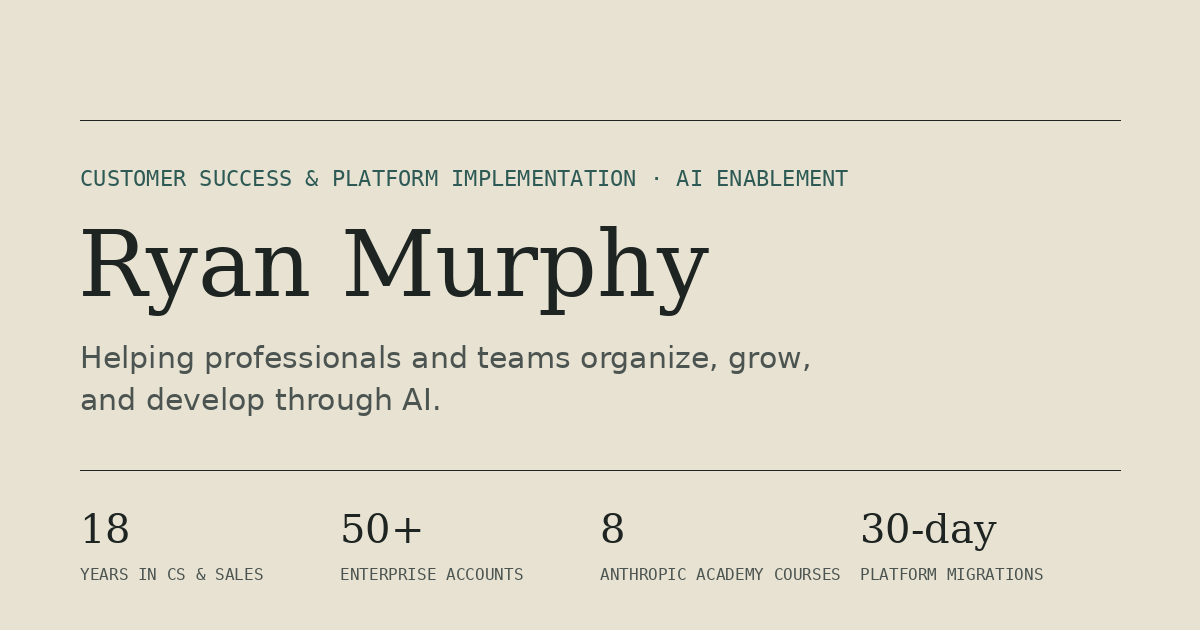
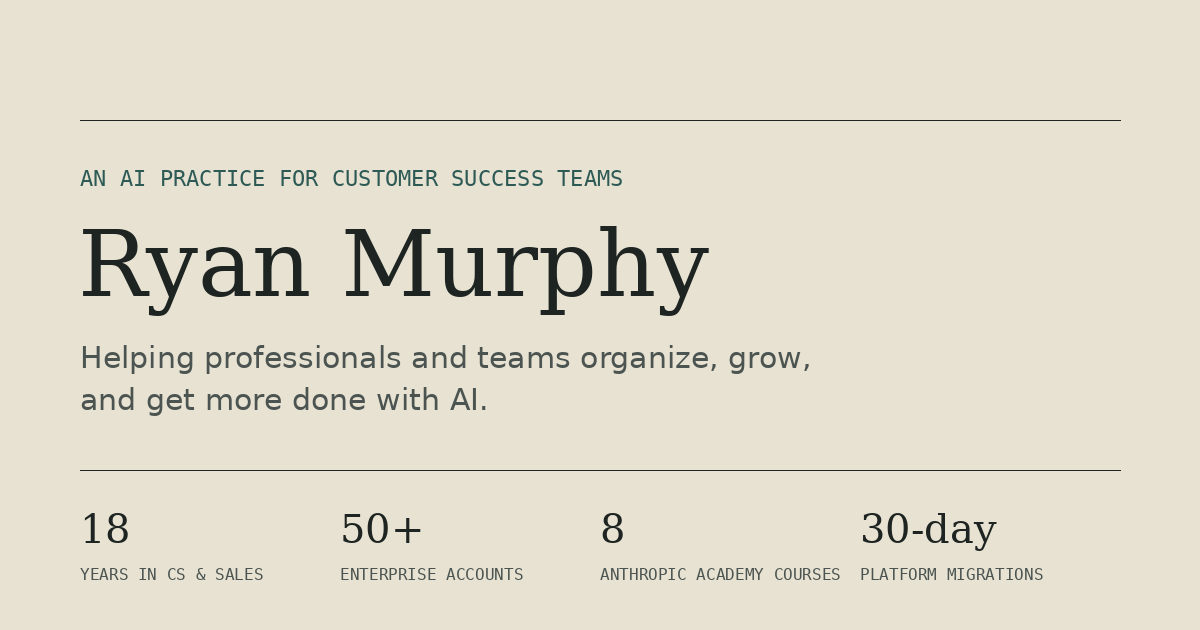
Add files via upload

Changed region(s): [[0.0617, 0.2714, 0.7092, 0.3016], [0.1542, 0.6032, 0.4008, 0.6635]]

diff --git a/index.html b/index.html
@@ -6,12 +6,12 @@
 <title>Ryan Murphy</title>
 <meta name="description" content="Ryan Murphy helps professionals and teams organize, grow, and develop through AI — a customer success leader who builds the AI tools his own team runs on.">
 <meta property="og:type" content="website">
-<meta property="og:title" content="Ryan Murphy — Customer Success & AI Enablement">
+<meta property="og:title" content="Ryan Murphy — An AI Practice for Customer Success Teams">
 <meta property="og:description" content="Helping professionals and teams organize, grow, and develop through AI. Built and shipped a company-wide AI prompt library, an AI-driven re-engagement workflow, and more.">
 <meta property="og:image" content="https://murph2588.github.io/og-image.png">
 <meta property="og:url" content="https://murph2588.github.io/">
 <meta name="twitter:card" content="summary_large_image">
-<meta name="twitter:title" content="Ryan Murphy — Customer Success & AI Enablement">
+<meta name="twitter:title" content="Ryan Murphy — An AI Practice for Customer Success Teams">
 <meta name="twitter:description" content="Helping professionals and teams organize, grow, and develop through AI.">
 <meta name="twitter:image" content="https://murph2588.github.io/og-image.png">
 <link rel="preconnect" href="https://fonts.googleapis.com">
@@ -579,9 +579,9 @@
 <section class="hero">
   <div class="section-inner" style="display:contents;">
     <div class="hero-copy">
-      <span class="kicker">Customer Success &amp; Platform Implementation · AI Enablement</span>
+      <span class="kicker">An AI Practice for Customer Success Teams</span>
       <h1>Ryan Murphy</h1>
-      <p class="role">Ten years in customer success, eight before that in sales — spent making <strong>privacy &amp; compliance software</strong>, and increasingly the AI layered on top of it, make sense to the people who actually have to use it.</p>
+      <p class="role">I help professionals and teams organize, grow, and get more done with AI — grounded in nearly two decades in enterprise customer success, and in the <strong>AI tools I've actually built and shipped</strong> for my own team.</p>
       <div class="hero-actions">
         <a class="btn primary" href="mailto:ryanseanmurphy@yahoo.com">Email me</a>
         <a class="btn" href="https://www.linkedin.com/in/ryan-murphy-52191629/" target="_blank" rel="noopener">LinkedIn ↗</a>
@@ -630,10 +630,10 @@
       <h2>What I do</h2>
     </div>
     <div class="about-copy">
-      <p>I lead customer success and platform implementation at TrustArc, where enterprise teams come to stand up privacy and compliance programs — data mapping, DSARs, risk assessments — and actually get them adopted, not just installed. I own implementation and ongoing success for a book of <strong>50+ enterprise accounts</strong>, and most of what I do comes down to one question: does this make someone's job easier, or did we just add another login?</p>
-      <p>A good part of my work now is building the systems my own team runs on. I created TrustArc's <strong>Ask Arc Prompt Library</strong> — an eleven-section, product-by-product guide now used company-wide across Customer Success, Sales, and Marketing — and I co-host a webinar series on getting real value out of AI in privacy work. I've also led some of the harder migrations: a 200-plus-request DSAR migration off a competitor's platform, and a cross-region data migration finished in half an hour instead of weeks.</p>
+      <p>I believe the people closest to the customer are usually best positioned to make AI adoption actually stick — not a separate AI team, not IT, the people who already know where the friction is. That's the practice this site is about: find where AI removes real friction, build it, and make sure the people around you can run it without you.</p>
+      <p>Right now that means leading customer success and platform implementation at TrustArc, where I own a book of <strong>50+ enterprise accounts</strong> and ask one question constantly: does this make someone's job easier, or did we just add another login? It's also meant building the systems my own team runs on — the Record tab has the specifics.</p>
       <p class="pull">Ship the capability, and most people find their own way eventually. Ship the know-how alongside it, and adoption stops being a project.</p>
-      <p>I try to take my own advice here: this year I've been going deep on agentic AI tools myself — Claude Code, multi-agent workflows, actually building with the things I tell customers to adopt — because it's hard to coach someone through a shift you haven't gone through yourself.</p>
+      <p>I try to take my own advice here: this year I've been going deep on agentic AI myself — Claude Code, multi-agent workflows, actually building with the tools I tell people to adopt — because it's hard to coach someone through a shift you haven't gone through yourself. The Notes tab is where I write that part down as it happens.</p>
     </div>
   </div>
 </section>
@@ -1101,9 +1101,9 @@ const FIELD_GUIDE_FILENAME = "the-ai-first-csm-field-guide.pdf";
    one-time consent prompt for them.
    ============================================================ */
 const SITE_REFERENCE = [
-  'You are answering questions on a personal website for Ryan Murphy, a Customer Success & Platform Implementation leader at TrustArc (privacy/compliance SaaS). Answer in the THIRD PERSON, as a helpful guide to his work — never impersonate him as "I". Base every answer ONLY on the reference notes below; if something is not covered, say the site does not go into that and point the visitor to the Connect or Work-with-me sections instead of guessing. Keep answers under about 120 words, warm and direct, no bullet points.',
+  'You are answering questions on Ryan Murphy\'s personal website. Ryan runs a personal practice helping professionals and teams organize, grow, and get more done with AI, grounded in nearly two decades in enterprise customer success — day to day, that means leading customer success and platform implementation at TrustArc (privacy/compliance SaaS). Answer in the THIRD PERSON, as a helpful guide to his work — never impersonate him as "I". Base every answer ONLY on the reference notes below; if something is not covered, say the site does not go into that and point the visitor to the Connect or Work-with-me sections instead of guessing. Keep answers under about 120 words, warm and direct, no bullet points.',
   '',
-  'ABOUT: Ryan leads customer success and platform implementation at TrustArc. He owns a book of 50+ enterprise accounts, keeping the large majority in healthy status while expanding most into 3+ product lines. He built TrustArc\'s "Ask Arc Prompt Library," an eleven-section AI prompt guide now used company-wide, and co-hosts the "Privacy in Practice" customer webinar series. He is currently deepening his own hands-on fluency with agentic AI tools like Claude Code and multi-agent workflows.',
+  'ABOUT: Ryan believes the people closest to the customer are usually best positioned to make AI adoption actually stick, not a separate AI team or IT — so his practice is finding where AI removes real friction, building it, and teaching the people around him to run it without him. Day to day, that means leading customer success and platform implementation at TrustArc, where he owns a book of 50+ enterprise accounts, keeping the large majority in healthy status while expanding most into 3+ product lines. He built TrustArc\'s "Ask Arc Prompt Library," an eleven-section AI prompt guide now used company-wide, and co-hosts the "Privacy in Practice" customer webinar series. He is currently deepening his own hands-on fluency with agentic AI tools like Claude Code and multi-agent workflows, and writes about it in the Notes section.',
   '',
   'TRACK RECORD: Built and shipped the Ask Arc Prompt Library company-wide, now referenced in TrustArc\'s Help Center and customer webinars. Co-presents the "Privacy in Practice" webinar series on AI in privacy work. Led a cross-region data migration in about 30 minutes using AI-assisted tooling. Delivered a full platform migration inside a 30-day window for a new enterprise customer, plus a separate multi-month project moving 200+ historical rights requests off a competitor\'s platform. Built an AI-driven account re-engagement workflow now used team-wide and cited by leadership.',
   '',
